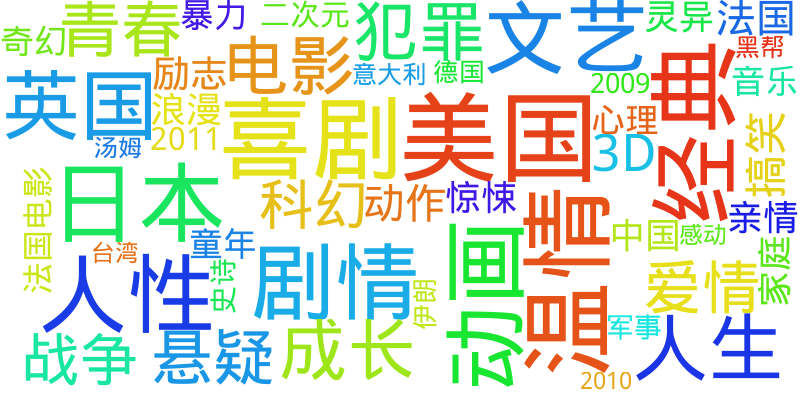
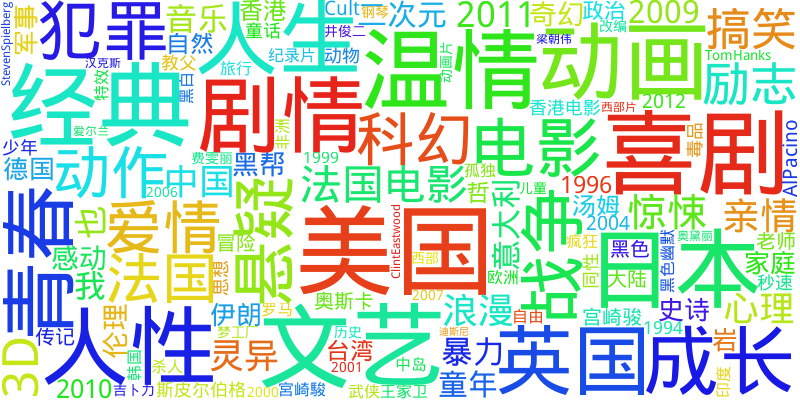
add README

diff --git a/word_cloud.py b/word_cloud.py
@@ -7,4 +7,4 @@ from chinese_cloud.chinese_cloud import ChineseCloud
 
 text_dir = path.dirname(__file__)
 text = open(path.join(text_dir, 'TopLabel.txt')).read()
-chinese_cloud = ChineseCloud(width=800, height=400, max_font=100, min_font=20).generate(text).to_image('TopLabel.png')
+chinese_cloud = ChineseCloud(width=800, height=400, max_font=100, min_font=10).generate(text).to_image('TopLabel.png')

diff --git a/README.md b/README.md
@@ -1,0 +1,8 @@
+# 我的小蜘蛛们
+
+##豆瓣电影
+
+* Top 250 电影名单
+*  Top 250 电影标签图云
+
+![pic](./TopLabel.png)
